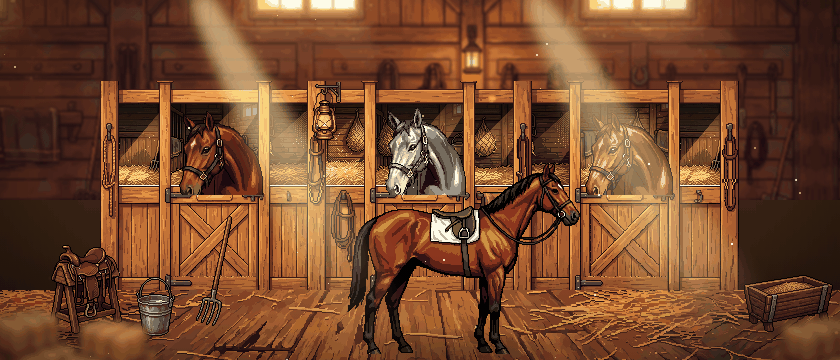
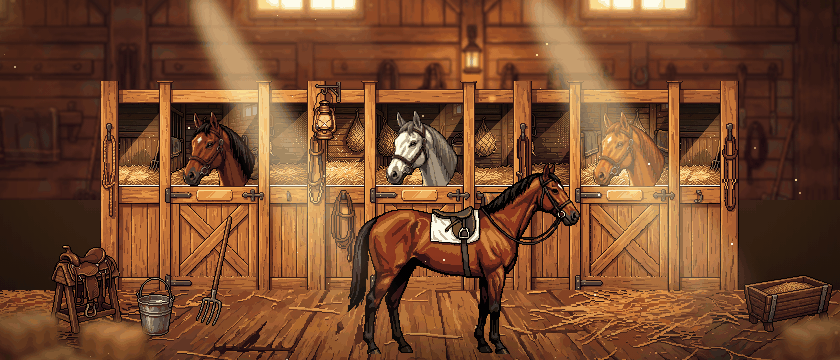
Stall horses: cut from the 3/4 portraits so the head is attached to its neck
The generated stall-horse strips had a dark throat wedge between the jaw
and a chest lump, so each head read as floating in the doorway. The barn
and yard stall horses are now made from the approved 3/4 portraits
(bay, grey, chestnut, black): 128 -> 96 px (3x nearest, exact 4:1 box,
palette-snapped), a slow 1 px nod, and a `door` row in the atlas under
the muzzle. overDoor crops there and puts it on the half-door line, so
the neck runs down behind the door. Yard and barn posters regenerated;
manifest and art index updated.

Claude-Session: https://claude.ai/code/session_01Vu84mkkZ7WYWg3fhBK5rmy

diff --git a/apps/web/src/components/diorama/scenes.ts b/apps/web/src/components/diorama/scenes.ts
@@ -193,14 +193,14 @@ type StallHorse = "stall-horse-bay" | "stall-horse-grey" | "stall-horse-chestnut
  * chest show, the chest overlaps the door's top rail by `over` px (it is in front of it), the
  * rest of the body is hidden behind the door, and the ears stay just under the lintel.
  */
-function overDoor(name: StallHorse, scale: 1 | 2 | 3, hole: readonly number[], ox: number, oy: number, over: number, dx: number, phase: number, rows?: number): AnimItem {
+function overDoor(name: StallHorse, scale: 1 | 2 | 3, hole: readonly number[], ox: number, oy: number, dx: number, phase: number): AnimItem {
   const strip = (scale === 1 ? name : `${name}-s${scale}`) as AnimName;
-  const a = an[strip];
+  const a = an[strip] as { fw: number; fh: number; door?: number };
   const [hx, hy, hw, hh] = hole as [number, number, number, number];
-  // `rows` keeps exactly that many frame rows (the head and neck) whatever the hole height
-  const visible = Math.min(a.fh, rows ?? hh + over - 1);
-  // y is the bottom of the UNcropped frame: the visible part ends `over` px below the door line
-  return sheet(strip, ox + hx + Math.round((hw - a.fw) / 2) + dx, oy + hy + hh + over + (a.fh - visible), { cropBottom: a.fh - visible, phase, fps: 3 + (phase % 2) });
+  // the strip's door row (under the muzzle, across the neck) lands on the half-door line; the
+  // rest of the neck is cropped, so it reads as running down behind the door
+  const visible = Math.min(a.fh, a.door ?? hh - 1);
+  return sheet(strip, ox + hx + Math.round((hw - a.fw) / 2) + dx, oy + hy + hh + (a.fh - visible), { cropBottom: a.fh - visible, phase, fps: 3 + (phase % 2) });
 }
 
 /** Lit stall interiors behind facade doorways (never a flat black hole). */
@@ -275,12 +275,11 @@ const yard: SceneDef = {
         prop("yard-props", 1, FACADE_X + 590, 288, { shadow: 70 }),
         prop("yard-props", 3, FACADE_X + 520, 286, { shadow: 46 }),
       ],
-      // stall heads end on the half-door line (rows 0-31: ears to throat), the neck behind the door
       anims: [
-        overDoor("stall-horse-bay", 3, yardHoles[1]!, FACADE_X, FACADE_BOTTOM - 256, 0, 2, 0, 32),
-        overDoor("stall-horse-chestnut", 3, yardHoles[4]!, FACADE_X, FACADE_BOTTOM - 256, 0, 0, 3, 32),
-        overDoor("stall-horse-grey", 3, yardHoles[6]!, FACADE_X, FACADE_BOTTOM - 256, 0, 2, 5, 32),
-        overDoor("stall-horse-black", 3, yardHoles[2]!, FACADE_X, FACADE_BOTTOM - 256, 0, 2, 2, 32),
+        overDoor("stall-horse-bay", 3, yardHoles[1]!, FACADE_X, FACADE_BOTTOM - 256, 2, 0),
+        overDoor("stall-horse-chestnut", 3, yardHoles[4]!, FACADE_X, FACADE_BOTTOM - 256, 0, 3),
+        overDoor("stall-horse-grey", 3, yardHoles[6]!, FACADE_X, FACADE_BOTTOM - 256, 2, 5),
+        overDoor("stall-horse-black", 3, yardHoles[2]!, FACADE_X, FACADE_BOTTOM - 256, 2, 2),
       ],
     },
     {
@@ -542,9 +541,9 @@ const barn: SceneDef = {
       holes: interiors(barnHoles, STALLS_X, STALLS_BOTTOM - 224, false),
       items: [img("diorama/barn-stalls.png", STALLS_X, STALLS_BOTTOM), prop("barn-props", 2, STALLS_X + 236, 140)],
       anims: [
-        overDoor("stall-horse-bay", 1, barnHoles[1]!, STALLS_X, STALLS_BOTTOM - 224, 9, 4, 0),
-        overDoor("stall-horse-grey", 1, barnHoles[4]!, STALLS_X, STALLS_BOTTOM - 224, 9, 2, 3),
-        overDoor("stall-horse-chestnut", 1, barnHoles[7]!, STALLS_X, STALLS_BOTTOM - 224, 9, 4, 5),
+        overDoor("stall-horse-bay", 1, barnHoles[1]!, STALLS_X, STALLS_BOTTOM - 224, 4, 0),
+        overDoor("stall-horse-grey", 1, barnHoles[4]!, STALLS_X, STALLS_BOTTOM - 224, 2, 3),
+        overDoor("stall-horse-chestnut", 1, barnHoles[7]!, STALLS_X, STALLS_BOTTOM - 224, 4, 5),
       ],
     },
     {

diff --git a/apps/web/src/components/diorama/atlas.generated.ts b/apps/web/src/components/diorama/atlas.generated.ts
@@ -67,20 +67,20 @@ export const DIORAMA_ATLAS = {
    "h": 168
   },
   "stall-horse-bay": {
-   "w": 540,
-   "h": 113
+   "w": 444,
+   "h": 89
   },
   "stall-horse-grey": {
-   "w": 540,
-   "h": 113
+   "w": 444,
+   "h": 89
   },
   "stall-horse-chestnut": {
-   "w": 540,
-   "h": 113
+   "w": 444,
+   "h": 89
   },
   "stall-horse-black": {
-   "w": 540,
-   "h": 113
+   "w": 444,
+   "h": 89
   },
   "stall-interior-0": {
    "w": 96,
@@ -175,36 +175,36 @@ export const DIORAMA_ATLAS = {
    "h": 64
   },
   "stall-horse-bay-s2": {
-   "w": 270,
-   "h": 57
+   "w": 222,
+   "h": 45
   },
   "stall-horse-bay-s3": {
-   "w": 180,
-   "h": 38
+   "w": 150,
+   "h": 30
   },
   "stall-horse-grey-s2": {
-   "w": 270,
-   "h": 57
+   "w": 222,
+   "h": 45
   },
   "stall-horse-grey-s3": {
-   "w": 180,
-   "h": 38
+   "w": 150,
+   "h": 30
   },
   "stall-horse-chestnut-s2": {
-   "w": 270,
-   "h": 57
+   "w": 222,
+   "h": 45
   },
   "stall-horse-chestnut-s3": {
-   "w": 180,
-   "h": 38
+   "w": 150,
+   "h": 30
   },
   "stall-horse-black-s2": {
-   "w": 270,
-   "h": 57
+   "w": 222,
+   "h": 45
   },
   "stall-horse-black-s3": {
-   "w": 180,
-   "h": 38
+   "w": 150,
+   "h": 30
   },
   "horse-gallop-s2": {
    "w": 1380,
@@ -409,28 +409,32 @@ export const DIORAMA_ATLAS = {
    "fps": 8
   },
   "stall-horse-bay": {
-   "fw": 90,
-   "fh": 113,
+   "fw": 74,
+   "fh": 89,
    "frames": 6,
-   "fps": 4
+   "fps": 4,
+   "door": 77
   },
   "stall-horse-grey": {
-   "fw": 90,
-   "fh": 113,
+   "fw": 74,
+   "fh": 89,
    "frames": 6,
-   "fps": 4
+   "fps": 4,
+   "door": 77
   },
   "stall-horse-chestnut": {
-   "fw": 90,
-   "fh": 113,
+   "fw": 74,
+   "fh": 89,
    "frames": 6,
-   "fps": 4
+   "fps": 4,
+   "door": 77
   },
   "stall-horse-black": {
-   "fw": 90,
-   "fh": 113,
+   "fw": 74,
+   "fh": 89,
    "frames": 6,
-   "fps": 4
+   "fps": 4,
+   "door": 77
   },
   "horse-aisle-idle": {
    "fw": 253,
@@ -523,52 +527,60 @@ export const DIORAMA_ATLAS = {
    "fps": 5
   },
   "stall-horse-bay-s2": {
-   "fw": 45,
-   "fh": 57,
+   "fw": 37,
+   "fh": 45,
    "frames": 6,
-   "fps": 4
+   "fps": 4,
+   "door": 39
   },
   "stall-horse-bay-s3": {
-   "fw": 30,
-   "fh": 38,
+   "fw": 25,
+   "fh": 30,
    "frames": 6,
-   "fps": 4
+   "fps": 4,
+   "door": 26
   },
   "stall-horse-grey-s2": {
-   "fw": 45,
-   "fh": 57,
+   "fw": 37,
+   "fh": 45,
    "frames": 6,
-   "fps": 4
+   "fps": 4,
+   "door": 39
   },
   "stall-horse-grey-s3": {
-   "fw": 30,
-   "fh": 38,
+   "fw": 25,
+   "fh": 30,
    "frames": 6,
-   "fps": 4
+   "fps": 4,
+   "door": 26
   },
   "stall-horse-chestnut-s2": {
-   "fw": 45,
-   "fh": 57,
+   "fw": 37,
+   "fh": 45,
    "frames": 6,
-   "fps": 4
+   "fps": 4,
+   "door": 39
   },
   "stall-horse-chestnut-s3": {
-   "fw": 30,
-   "fh": 38,
+   "fw": 25,
+   "fh": 30,
    "frames": 6,
-   "fps": 4
+   "fps": 4,
+   "door": 26
   },
   "stall-horse-black-s2": {
-   "fw": 45,
-   "fh": 57,
+   "fw": 37,
+   "fh": 45,
    "frames": 6,
-   "fps": 4
+   "fps": 4,
+   "door": 39
   },
   "stall-horse-black-s3": {
-   "fw": 30,
-   "fh": 38,
+   "fw": 25,
+   "fh": 30,
    "frames": 6,
-   "fps": 4
+   "fps": 4,
+   "door": 26
   },
   "horse-gallop-s2": {
    "fw": 115,

diff --git a/apps/web/src/components/ui/Page.tsx b/apps/web/src/components/ui/Page.tsx
@@ -30,7 +30,7 @@ export function SceneBackdrop({ scene }: { scene: SceneName }) {
 
 /**
  * Banner framing per scene (banners are ~110-170 art px tall against 360 px art): the barn
- * centres on the horses' heads over the stall doors (ears ~108 to muzzles ~195), and ignores
+ * centres on the horses' heads over the stall doors (ears ~110 to the door ~186), and ignores
  * the floor line, which would otherwise crop them at the forehead. The stable yard centres on
  * the horses looking out of the stall doors (~205-245) and the led horse's head (~170).
  */

diff --git a/art-src/diorama/process_diorama.py b/art-src/diorama/process_diorama.py
@@ -252,14 +252,31 @@ save(stalls, "barn-stalls", "diorama/raw/barn-stalls-0", holes=sh)
 fr = lambda p, a, b: [load(RAW / f"{p}-{i}.png") for i in range(a, b + 1)]
 strip(fr("anim-walk-led", 1, 8), "horse-walk-led", "anim-walk-led 1..8 (animate-with-text-v3 from rig-hd/horse-neutral-stance-256)", 8)
 strip(fr("anim-groom-hd", 1, 8), "groom-walk", "anim-groom-hd 1..8 (animate-with-text-v3 from groom-hd-0)", 8)
-# stall horses leaning out over the half-door: head, neck, chest (owner: never a floating head)
-sh_frames = [clean(f) for f in fr("anim-stall-horse", 0, 3)]
-# frame 3 grows a door-post stub at the bottom left: take that corner from frame 2
-sh_frames[3][70:, :32] = sh_frames[2][70:, :32]
-sh_frames = sh_frames + [sh_frames[2], sh_frames[1]]  # ping-pong head turn
+# stall horses looking out over the half-door, cut from the approved 3/4 portraits (owner: the
+# old generated head/chest read as a floating head). The portrait's neck runs straight down, so
+# the door line crosses the neck under the muzzle (portrait row 105) and the rest is behind the
+# door. 128 -> 96 px (3x nearest up, exact 4:1 box down, palette-snapped) to suit the stalls; a
+# slow 1 px nod; `door` = frame rows down to the door line (overDoor crops there).
+PORTRAITS = Path("apps/web/public/art/portraits")
+DOOR_ROW = 105
+NOD = (0, 0, 1, 1, 1, 0)
+
+
+def scale_3_4(a):
+    return downsample(np.repeat(np.repeat(a, 3, 0), 3, 1), 4)
+
+
 for coat in ("bay", "grey", "chestnut", "black"):
-    frames = [recoat(f, coat) for f in sh_frames]
-    strip(frames, f"stall-horse-{coat}", f"anim-stall-horse 0..3 ping-pong (animate-with-text-v3 from stall-horse-3), coat {coat} by luminance-ramp recolour", 4)
+    head = scale_3_4(clean(load(PORTRAITS / f"horse-{coat}.png")))
+    frames = []
+    for d in NOD:
+        f = np.zeros_like(head)
+        f[: head.shape[0] - d] = head[d:]
+        frames.append(f)
+    ys = np.nonzero((head[..., 3] > 0).any(1))[0]
+    y0 = max(0, int(ys.min()) - max(NOD) - 1)  # strip() crops the union box with 1 px of padding
+    strip(frames, f"stall-horse-{coat}", f"portraits/horse-{coat}.png 3:4 (3x nearest, 4:1 box), 1 px nod", 4)
+    atlas["anims"][f"stall-horse-{coat}"]["door"] = int(round(DOOR_ROW * 0.75)) - y0
 for i in range(4):
     im = quantise(load(RAW / f"stall-interior-{i}.png"))
     im[..., 3] = 255
@@ -292,6 +309,8 @@ def downsample_strip(name, k, fps, src=None):
     out = f"{name}-s{k}"
     save(s, out, f"{name} {k}:1 box downsample snapped to its own (key) palette")
     atlas["anims"][out] = {"fw": int(small[0].shape[1]), "fh": int(small[0].shape[0]), "frames": n, "fps": fps}
+    if "door" in atlas["anims"][name]:
+        atlas["anims"][out]["door"] = int(atlas["anims"][name]["door"] + ph) // k
 
 
 # level-of-detail copies (the engine picks one so a sprite always fits its band)
